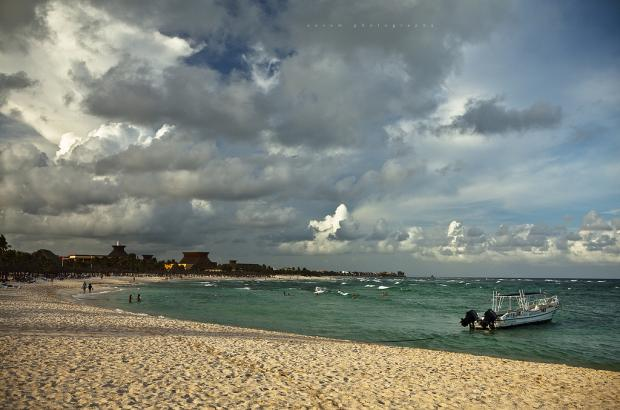
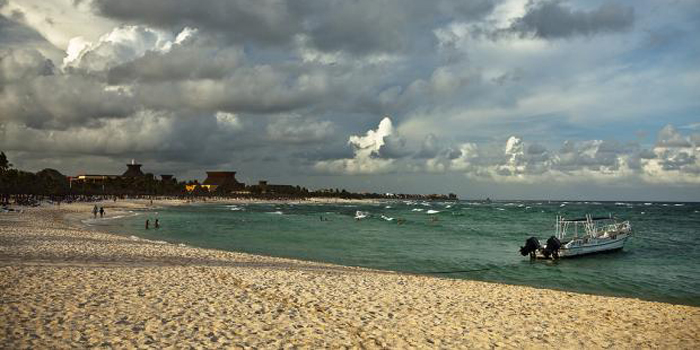
photos

diff --git a/wacep/templates/registration/login.html b/wacep/templates/registration/login.html
@@ -7,19 +7,22 @@
 {%block loginlink %}{%endblock loginlink %}
 {% block content %}
 
-<h1>Log In</h1>
+
+<div class="hero-unit" style="color: white; padding: 30px; text-shadow: 1px 1px 1px #000; background-image: url('/site_media/img/beach.jpg');  ">
+
+		<h1>
+		Water and Climate Education Program (WACEP)
+		</h1>
+		<h3>
+		Short Courses in Climate Risk Management and Water Resources Management
+		</h3>
+		
+</div>
+
 
 <div class="row-fluid">
 
-	<div class="span7">
-	
-		<div class="pageblock">
-		
-		<h3>
-		Welcome to the Water and Climate Education Program (WACEP):
-		<br/>
-		Short Courses in Climate Risk Management and Water Resources Management
-		</h3>
+	<div class="span6">
 		
 		<p>
 		Caribbean islands have limited water resources, and increasing pressure on those resources from population pressure, urbanization, economic development, and tourism. Climatic variability is magnifying existing pressures. Adaptation to climate is essential, but regional capacity needs to be built in how to identify and implement effective strategies to manage climate and water-related risks.
@@ -38,15 +41,11 @@
 		<li>Water Planning and Policy for Climate Variability and Change</li>
 		</ol>
 		
-
 		<p>Please contact <a href="mailto:wacep@iri.columbia.edu">wacep@iri.columbia.edu </a>for more information and course registration.</p>
+		
+		</div>
 
-	</div>	
-	
-	</div>
-	
-	<div class="span5">
-
+	<div class="span6">
 		<form method="post" action="." class="well">
 		
 		<label for="id_username">User Name: {{ form.username }}</label>
@@ -73,11 +72,14 @@
 		
 		</form>
 		{% endcomment%}
-		
-		<img src="http://wacep.qa.ccnmtl.columbia.edu/site_media/splash/img/wacep_logo_vertical.png" alt="WACEP Logo" />
-		
+		<img src="/site_media/splash/img/wacep_logo_vertical.png" alt="WACEP Logo" />
+
 	</div>
+	
 
 </div>
+
+
+
 
 {% endblock %}

diff --git a/wacep/templates/registration/logged_out.html b/wacep/templates/registration/logged_out.html
@@ -10,10 +10,17 @@
 
 <h1>Thank You</h1>
 
+<div class="row-fluid">
+<div class="span4">
 	<p>Thanks for visiting waceponline.org.</p>
 	
 	<div>
 		<a href="/accounts/login/?next=/" class="btn">I want to log in again.</a>
 	</div>
+	</div>
+<div class="span8">
+	<img class="img-polaroid" src="/site_media/img/gazebo.jpg"/>
+	
+</div>
 	
 {%endblock content%}
